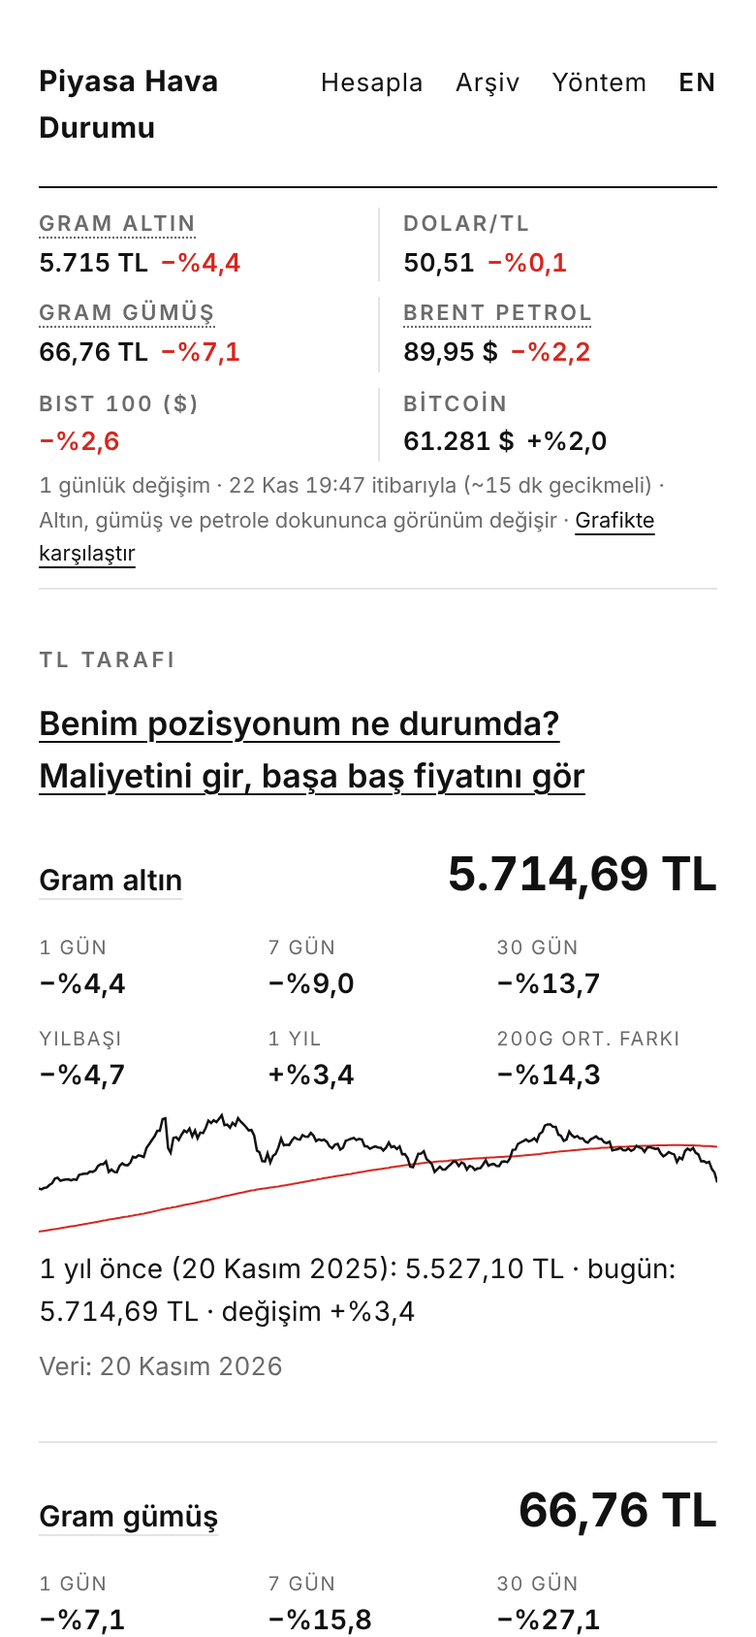
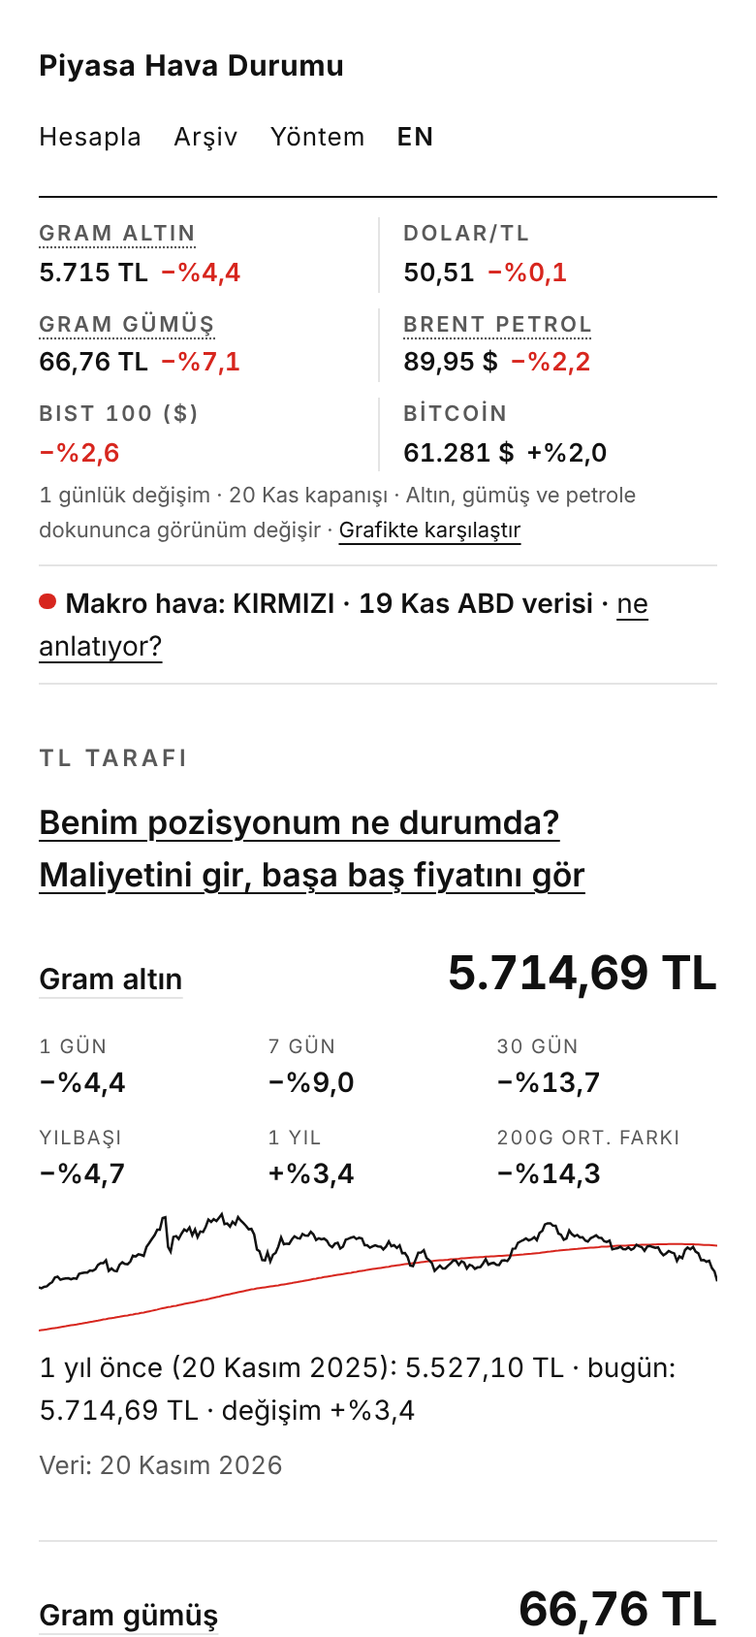
Calculator spread (with TCMB banknote reference), clearer band date, macro line on first screen, mobile masthead, headline language + lottery filter
Claude-Session: https://claude.ai/code/session_01HYDefgn5NWFqFd8ndNssHq

diff --git a/piyasa/hesapla.js b/piyasa/hesapla.js
@@ -14,7 +14,7 @@
   function L(tr, en) { return EN ? en : tr; }
 
   function $(id) { return document.getElementById(id); }
-  if (EN) ["sonuc", "fiyat-meta", "foot-meta", "maliyet-label", "miktar-label", "maliyet", "miktar"].forEach(function (id) { var e = $(id); if (e) e.setAttribute("data-noi18n", ""); });
+  if (EN) ["sonuc", "fiyat-meta", "foot-meta", "maliyet-label", "miktar-label", "maliyet", "miktar", "makas-ref"].forEach(function (id) { var e = $(id); if (e) e.setAttribute("data-noi18n", ""); });
   function el(tag, cls, text) {
     var e = document.createElement(tag);
     if (cls) e.className = cls;
@@ -55,7 +55,7 @@
   function save() {
     try {
       if ($("hatirla").checked) {
-        localStorage.setItem(KEY, JSON.stringify({ a: $("varlik").value, c: ccy(), m: $("maliyet").value, q: $("miktar").value }));
+        localStorage.setItem(KEY, JSON.stringify({ a: $("varlik").value, c: ccy(), m: $("maliyet").value, q: $("miktar").value, s: $("makas").value }));
       } else {
         localStorage.removeItem(KEY);
       }
@@ -69,6 +69,7 @@
       Array.prototype.forEach.call(document.querySelectorAll('input[name="ccy"]'), function (r) { r.checked = r.value === s.c; });
       $("maliyet").value = String(s.m || "").slice(0, 32);
       $("miktar").value = String(s.q || "").slice(0, 32);
+      $("makas").value = String(s.s || "").slice(0, 8);
       $("hatirla").checked = true;
     } catch (e) { /* ignore */ }
   }
@@ -114,7 +115,9 @@
     if (!P) return;
     var cost = parse($("maliyet").value), qty = parse($("miktar").value);
     if (a === "bist100" && cost > 0) qty = qty / cost;           // TL invested -> index units
-    var r = C.compute(a, cost, c, qty, P);
+    var spread = parse($("makas").value);
+    var r = C.compute(a, cost, c, qty, P, spread > 0 ? spread : 0);
+    if (spread >= 50) $("makas").setAttribute("aria-invalid", "true"); else $("makas").removeAttribute("aria-invalid");
     if (!r) {
       if (show || $("maliyet").value || $("miktar").value) {
         var msg;
@@ -171,8 +174,18 @@
     row(tb, L("Kâr / zarar", "Profit / loss"), (r.pl < 0 ? "−" : "+") + money(Math.abs(r.pl), r.ccy), r.pl < 0 ? "neg" : null);
     row(tb, L("Maliyetine dönmek için fiyat", "Breakeven price"), a === "bist100" ? num(r.breakeven, 0) + L(" puan", " points") : money(r.breakeven, r.ccy));
     row(tb, L("Gereken yükseliş", "Rise needed"), r.toBreakevenPct <= 0 ? L("Yok (maliyetin üzerindesin)", "None (above your cost)") : signedPct(r.toBreakevenPct));
+    if (r.spreadPct) {
+      var spTxt = EN ? num(r.spreadPct, 2) + "%" : "%" + num(r.spreadPct, 2);
+      row(tb, L("Bozdurunca eline geçen (makas ", "Cash received (spread ") + spTxt + ")", a === "bist100" ? money(r.netValue, "TL") : money(r.netValue, r.ccy));
+      row(tb, L("Makas sonrası kâr / zarar", "Profit / loss after spread"), (r.netPl < 0 ? "−" : "+") + money(Math.abs(r.netPl), r.ccy) + " (" + signedPct(r.netPlPct) + ")", r.netPl < 0 ? "neg" : null);
+      row(tb, L("Makas dahil maliyetine dönmek için fiyat", "Breakeven price incl. spread"), a === "bist100" ? num(r.netBreakeven, 0) + L(" puan", " points") : money(r.netBreakeven, r.ccy));
+      row(tb, L("Makas dahil gereken yükseliş", "Rise needed incl. spread"), r.netToBreakevenPct <= 0 ? L("Yok", "None") : signedPct(r.netToBreakevenPct));
+    }
     t.appendChild(tb);
     out.appendChild(t);
+    if (r.spreadPct) out.appendChild(el("p", "mute small", L(
+      "Makas satırları, piyasa fiyatı yerine bozdururken eline geçecek fiyatla hesaplanır. Makası sen girdin; gerçek makas yere ve saate göre değişir.",
+      "The spread rows use the price you would actually receive when selling instead of the market price. You entered the spread; real spreads vary by dealer and time.")));
 
     if (a === "bist100") return;
     out.appendChild(el("p", "label kicker", L("Dolar/TL değişirse", "If USD/TRY changes")));
@@ -212,12 +225,27 @@
     P = d && d.prices ? d.prices : null;
     var meta = P ? L("Dolar/TL ", "USD/TRY ") + num(+P.usdtry, 4) + L(" · fiyat tarihi ", " · price date ") + trDate(P.usdtry_asof) : L("Güncel fiyat alınamadı.", "Current prices could not be loaded.");
     $("fiyat-meta").textContent = meta;
+    var mr = d && d.makas_ref && d.makas_ref.usd;
+    if (mr && typeof mr.pct === "number" && /^\d{4}-\d{2}-\d{2}$/.test(mr.tarih || "")) {
+      var refEl = $("makas-ref");
+      refEl.textContent = EN
+        ? "Reference: Central Bank (TCMB) banknote buying/selling rates for the US dollar differ by " + num(mr.pct, 2) + "% (TCMB rates of " + trDate(mr.tarih) + ", published around 15:30). Banks and dealers usually apply a wider spread. There is no free daily spread data for gold and silver; check your own dealer."
+        : "Referans: TCMB dolar efektif alış ve satış kuru arasındaki fark %" + num(mr.pct, 2) + " (TCMB'nin " + trDate(mr.tarih) + " kuru, ~15:30'da açıklanır). Bankalar ve döviz büroları genellikle daha geniş makas uygular. Altın ve gümüş için serbest günlük makas verisi yok; kendi aldığın yerin fiyatlarına bak.";
+      refEl.hidden = false;
+    }
     $("foot-meta").textContent = L("Fiyat tarihi: ", "Price date: ") + (P ? trDate(P.usdtry_asof) : "—") + L(" · Kaynak: Piyasa Hava Durumu türetilmiş verisi", " · Source: Piyasa Hava Durumu derived data");
     update();
   }
 
-  ["varlik", "maliyet", "miktar", "hatirla"].forEach(function (id) {
+  ["varlik", "maliyet", "miktar", "makas", "hatirla"].forEach(function (id) {
     $(id).addEventListener(id === "varlik" || id === "hatirla" ? "change" : "input", function () { update(); });
+  });
+  // "Makası bilmiyor musun?": two dealer prices -> spread %
+  ["makas-satis", "makas-alis"].forEach(function (id) {
+    $(id).addEventListener("input", function () {
+      var sp = C.spreadFromPrices(parse($("makas-satis").value), parse($("makas-alis").value));
+      if (sp != null) { $("makas").value = num(sp, 2); update(); }
+    });
   });
   Array.prototype.forEach.call(document.querySelectorAll('input[name="ccy"]'), function (r) { r.addEventListener("change", function () { update(); }); });
   // Mobile: "next" on the cost field moves on; "done"/Enter or the button computes and closes the keyboard.

diff --git a/piyasa/veri.html b/piyasa/veri.html
@@ -109,14 +109,14 @@
 
     <section>
       <h2 id="tl">tl.json ve konum.json</h2>
-      <p><code>tl.json → assets[]</code>: <code>id, label, unit, asof, last, chg_1g, chg_7g, chg_30g, chg_ytd, chg_1y, date_1y, val_1y, vs_ma200, stale, series</code> (yüzdeler 2 ondalık). <code>prices</code>: hesaplayıcı için güncel yuvarlanmış fiyatlar. <code>band</code>: üst banttaki alternatif görünümler (<code>ons_altin</code>, <code>ons_gumus</code>, <code>brent</code>, <code>wti</code>): <code>label, unit, asof, last, chg_1g, stale</code>.</p>
+      <p><code>tl.json → assets[]</code>: <code>id, label, unit, asof, last, chg_1g, chg_7g, chg_30g, chg_ytd, chg_1y, date_1y, val_1y, vs_ma200, stale, series</code> (yüzdeler 2 ondalık). <code>prices</code>: hesaplayıcı için güncel yuvarlanmış fiyatlar. <code>band</code>: üst banttaki alternatif görünümler (<code>ons_altin</code>, <code>ons_gumus</code>, <code>brent</code>, <code>wti</code>): <code>label, unit, asof, last, chg_1g, stale</code>. <code>makas_ref.usd</code>: TCMB dolar efektif alış/satış kuru ve aradaki yüzde fark (<code>alis, satis, pct, tarih</code>; kaynak TCMB, kamuya açık), hesaplayıcıdaki makas referansı.</p>
       <p><code>konum.json → groups[].satirlar[]</code>: <code>id, ad, asof, ust20, ust50, ust200</code> (1 = üstünde, 0 = altında, null = yeterli geçmiş yok), <code>fark200</code> (200 günlük ortalamaya % uzaklık, 1 ondalık), <code>eski</code>. Grup içinde alfabetik; bir sıralama değildir.</p>
     </section>
 
     <section>
       <h2 id="dunya">dunya.json</h2>
       <p><code>markets[]</code>: <code>id, baslik, endeksler[], sirketler[]</code>. Endeks/fon satırı: <code>id, ad, tur</code> (endeks | fon), <code>asof, seviye</code> (yuvarlanmış son kapanış), <code>chg_1g, chg_7g, chg_30g, chg_ytd</code> (% , 1 ondalık), <code>ust20, ust50, ust200</code> (0/1/null), <code>fark200, eski</code>. Şirket satırı aynı alanlar, <code>seviye</code> yok, <code>kod</code> borsa kodu; alfabetik.</p>
-      <p><code>emtia[]</code>: <code>grup, satirlar[]</code> (endeks satırı + <code>birim</code>). <code>referans_metaller[]</code>: <code>ad, aciklama, durum</code> ("günlük serbest veri yok"; fiyat yok). <code>basliklar</code>: <code>konular[].basliklar[]</code> = <code>baslik, kaynak, url, zaman</code> (UTC) — haber metni yok; <code>kaynaklar[]</code> (akış ve son durum), <code>bekleyen[]</code>.</p>
+      <p><code>emtia[]</code>: <code>grup, satirlar[]</code> (endeks satırı + <code>birim</code>). <code>referans_metaller[]</code>: <code>ad, aciklama, durum</code> ("günlük serbest veri yok"; fiyat yok). <code>basliklar</code>: <code>konular[].basliklar[]</code> = <code>baslik, kaynak, url, zaman, dil</code> (UTC; <code>dil</code> başlığın dili: en/pt/tr) — haber metni yok; <code>kaynaklar[]</code> (akış ve son durum), <code>bekleyen[]</code>.</p>
     </section>
 
     <section>

diff --git a/piyasa/style.css b/piyasa/style.css
@@ -6,7 +6,7 @@
 @font-face{font-family:"Inter";font-style:normal;font-weight:700;font-display:swap;src:url(fonts/inter-latin-ext-700-normal.woff2) format("woff2");unicode-range:U+0100-02AF,U+0304,U+0308,U+0329,U+1E00-1E9F,U+1EF2-1EFF,U+2020,U+20A0-20AB,U+20AD-20C0,U+2113,U+2C60-2C7F,U+A720-A7FF}
 @font-face{font-family:"Inter";font-style:normal;font-weight:700;font-display:swap;src:url(fonts/inter-latin-700-normal.woff2) format("woff2");unicode-range:U+0000-00FF,U+0131,U+0152-0153,U+02BB-02BC,U+02C6,U+02DA,U+02DC,U+0304,U+0308,U+0329,U+2000-206F,U+2074,U+20AC,U+2122,U+2191,U+2193,U+2212,U+2215,U+FEFF,U+FFFD}
 
-:root{--bg:#fff;--ink:#111;--mute:#6b6b6b;--rule:#e4e4e4;--red:#d7261e;--w:44rem}
+:root{--bg:#fff;--ink:#111;--mute:#595959;--rule:#e4e4e4;--red:#d7261e;--w:44rem}
 *{box-sizing:border-box}
 html{-webkit-text-size-adjust:100%}
 body{margin:0;background:var(--bg);color:var(--ink);font:400 17px/1.6 "Inter",system-ui,-apple-system,"Segoe UI",Roboto,Arial,sans-serif;font-feature-settings:"tnum" 1}
@@ -19,7 +19,7 @@ header.masthead{padding:28px 0 18px;border-bottom:1px solid var(--ink)}
 .tagline{font-size:12px;color:var(--mute);letter-spacing:.04em}
 footer .brand-links a{color:var(--ink)}
 footer .brand-links a:hover{color:var(--red)}
-.label{font-size:11px;font-weight:600;letter-spacing:.16em;text-transform:uppercase;color:var(--mute);margin:0 0 10px}
+.label{font-size:12px;font-weight:600;letter-spacing:.16em;text-transform:uppercase;color:var(--mute);margin:0 0 10px}
 h1{font-weight:700;font-size:30px;line-height:1.2;letter-spacing:-.01em;margin:36px 0 8px}
 .dot{display:inline-block;width:.62em;height:.62em;border-radius:50%;background:var(--red);vertical-align:.08em;margin-right:.35em}
 section{padding:28px 0;border-top:1px solid var(--rule)}
@@ -355,3 +355,14 @@ ul.more li:first-child{border-top:0}
 ul.more li .small{display:block;margin-top:2px}
 hr.rule-top{border:0;border-top:1px solid var(--rule);margin:28px 0 20px}
 .tl-link.top{margin:0 0 18px;font-size:17px;font-weight:600}
+.makas-yardim{margin:4px 0 8px;font-size:14px}
+.makas-yardim summary{cursor:pointer;text-decoration:underline;text-underline-offset:3px}
+.makas-yardim[open] summary{margin-bottom:6px}
+.macro-line{margin:0;padding:8px 0;border-bottom:1px solid var(--rule);font-size:14px;font-weight:600}
+.macro-line[hidden]{display:none}
+.macro-line a{font-weight:400;color:var(--ink)}
+.macro-line a:hover{color:var(--red)}
+/* Narrow screens: brand on one line, menu on its own row (reviewers saw the name break into 3 lines) */
+@media (max-width:520px){header.masthead{flex-wrap:wrap;row-gap:10px;padding-top:22px}
+.brandbox,.brand{white-space:nowrap}
+header.masthead nav{width:100%}}

diff --git a/piyasa/hesapla-core.js b/piyasa/hesapla-core.js
@@ -32,8 +32,17 @@
   /* Breakeven ounce price in USD for a TL cost per gram at a given USD/TRY. */
   function breakevenOunceUsd(costTlPerGram, usdtry) { return costTlPerGram * OZ / usdtry; }
 
-  /* cost: average cost per unit in `ccy` ("TL" | "USD"); amount: units held. */
-  function compute(asset, cost, ccy, amount, p) {
+  /* Spread % from the two prices a dealer quotes: sell (what you pay) and buy (what you get). */
+  function spreadFromPrices(sell, buy) {
+    sell = +sell; buy = +buy;
+    if (!(sell > 0) || !(buy > 0) || buy > sell) return null;
+    return (sell - buy) / sell * 100;
+  }
+
+  /* cost: average cost per unit in `ccy` ("TL" | "USD"); amount: units held.
+     spreadPct (optional, 0–50): dealer spread / commission taken when selling; the market price
+     must be this much higher for the cash you receive to cover your cost. */
+  function compute(asset, cost, ccy, amount, p, spreadPct) {
     var a = ASSETS[asset];
     var px = prices(asset, p || {});
     cost = +cost; amount = +amount;
@@ -50,6 +59,16 @@
       scenarios: []
     };
     r.pl = r.value - r.costTotal;
+    var sp = +spreadPct;
+    if (sp > 0 && sp < 50) {
+      var k = 1 - sp / 100;
+      r.spreadPct = sp;
+      r.netValue = r.value * k;
+      r.netPl = r.netValue - r.costTotal;
+      r.netPlPct = (r.netValue / r.costTotal - 1) * 100;
+      r.netBreakeven = cost / k;                       // market price at which the cash received = cost
+      r.netToBreakevenPct = (r.netBreakeven / cur - 1) * 100;
+    }
     [0, 10, 20].forEach(function (k) {
       var u = px.usdtry * (1 + k / 100);
       var s = { shockPct: k, usdtry: u };
@@ -69,7 +88,8 @@
     return r;
   }
 
-  var api = { ASSETS: ASSETS, OZ: OZ, prices: prices, compute: compute, breakevenOunceUsd: breakevenOunceUsd };
+  var api = { ASSETS: ASSETS, OZ: OZ, prices: prices, compute: compute, breakevenOunceUsd: breakevenOunceUsd,
+              spreadFromPrices: spreadFromPrices };
   if (typeof module === "object" && module.exports) module.exports = api;
   else root.PHDCalc = api;
 })(this);

diff --git a/piyasa/tl.js b/piyasa/tl.js
@@ -158,6 +158,12 @@
     var p2 = function (n) { return (n < 10 ? "0" : "") + n; };
     return t.getUTCDate() + " " + MONTHS[t.getUTCMonth()].slice(0, 3) + " " + p2(t.getUTCHours()) + ":" + p2(t.getUTCMinutes());
   }
+  function istanbulDay(iso) {
+    var m = /^(\d{4})-(\d{2})-(\d{2})T(\d{2}):(\d{2})/.exec(String(iso || ""));
+    if (!m) return "";
+    var t = new Date(Date.UTC(+m[1], +m[2] - 1, +m[3], +m[4] + 3, +m[5]));
+    return isNaN(t.getTime()) ? "" : t.toISOString().slice(0, 10);
+  }
   function band(d) {
     var host = document.getElementById("band");
     if (!host) return;
@@ -206,8 +212,12 @@
     host.textContent = "";
     host.appendChild(ul);
     // Updated at 09:00, 10:30, 18:30 and after the US close (İstanbul): show the update time, not a "close".
-    var gen = istanbulTime(d.generated_at);
-    var when = gen ? " · " + gen + " itibarıyla (~15 dk gecikmeli)" : (last ? " · " + shortDate(last) + " kapanışı" : "");
+    // Time only when the newest price is from today (İstanbul); otherwise (night, weekend, holiday) the close date.
+    var gen = istanbulTime(d.generated_at), genDay = istanbulDay(d.generated_at);
+    // Reference day = gram gold's bar (the dollar can carry thin weekend quotes and would make Sunday look "live").
+    var ref = (src.a.gram_altin && src.a.gram_altin.asof) || last;
+    var when = gen && ref && ref === genDay ? " · " + gen + " itibarıyla (~15 dk gecikmeli)"
+      : (ref ? " · " + shortDate(ref) + " kapanışı" : "");
     var note = el("p", "band-n", "1 günlük değişim" + when +
       (toggles ? " · Altın, gümüş ve petrole dokununca görünüm değişir" : ""));
     var cmp = el("a", "band-cmp", "Grafikte karşılaştır");

diff --git a/piyasa/app.js b/piyasa/app.js
@@ -90,6 +90,24 @@
       : "Makro hava verisi yok";
     document.title = lvl ? "Makro hava: " + WORD[lvl] + " — Piyasa Hava Durumu" : document.title;
 
+    // One line under the band so the level is visible on the first screen (the full block is further down).
+    var ml = $("macro-line");
+    if (ml && lvl && !archived) {
+      ml.textContent = "";
+      ml.setAttribute("data-noi18n", "");
+      var LV_EN = { YESIL: "GREEN", SARI: "YELLOW", KIRMIZI: "RED" };
+      ml.appendChild(el("span", "dot lv-" + lvl.toLowerCase()));
+      var mm = /^(\d{4})-(\d{2})-(\d{2})$/.exec(String(d.data_date || ""));
+      var MEN = ["Jan", "Feb", "Mar", "Apr", "May", "Jun", "Jul", "Aug", "Sep", "Oct", "Nov", "Dec"];
+      var dd = mm ? (+mm[3]) + " " + (EN ? MEN[+mm[2] - 1] : MONTHS[+mm[2] - 1].slice(0, 3)) : "";
+      ml.appendChild(document.createTextNode((EN ? "Macro weather: " + LV_EN[lvl] : "Makro hava: " + WORD[lvl]) +
+        (dd ? (EN ? " · US data of " + dd : " · " + dd + " ABD verisi") : "") + " · "));
+      var ma = el("a", null, EN ? "what it means" : "ne anlatıyor?");
+      ma.href = "#kicker";
+      ml.appendChild(ma);
+      ml.hidden = false;
+    }
+
     var mode = d.mode === "live" ? "canlı" : d.mode === "retro" ? "geriye dönük" : "—";
     $("meta").textContent = "Veri: " + trDate(d.data_date) + " kapanışı · Kural sürümü " +
       (d.rules_version || "—") + " · Kayıt: " + mode;

diff --git a/piyasa/hesapla.html b/piyasa/hesapla.html
@@ -65,6 +65,17 @@
       <input type="text" id="maliyet" inputmode="decimal" enterkeyhint="next" placeholder="örn. 102,50">
       <label for="miktar" id="miktar-label">Miktar</label>
       <input type="text" id="miktar" inputmode="decimal" enterkeyhint="done" placeholder="örn. 10">
+      <label for="makas" id="makas-label">Makas / komisyon (%) — isteğe bağlı</label>
+      <input type="text" id="makas" inputmode="decimal" enterkeyhint="done" placeholder="örn. 2" aria-describedby="makas-not">
+      <p class="mute small" id="makas-not">Kuyumcu, banka ya da aracı kurum alış ve satış fiyatını farklı verir; bozdururken eline geçen tutar piyasa fiyatından düşüktür. Kendi aldığın yerin makasını gir.</p>
+      <details class="makas-yardim">
+        <summary>Makası bilmiyor musun? Fiyatlardan hesapla</summary>
+        <label for="makas-satis">Satış fiyatı (senin ödediğin)</label>
+        <input type="text" id="makas-satis" inputmode="decimal" placeholder="örn. 3000">
+        <label for="makas-alis">Alış fiyatı (bozdurunca aldığın)</label>
+        <input type="text" id="makas-alis" inputmode="decimal" placeholder="örn. 2940">
+      </details>
+      <p class="mute small" id="makas-ref" hidden></p>
       <label class="remember"><input type="checkbox" id="hatirla"> Bu cihazda hatırla</label>
       <button type="submit" class="go" id="hesapla">Hesapla</button>
     </form>

diff --git a/piyasa/i18n-pages.js b/piyasa/i18n-pages.js
@@ -13,6 +13,13 @@
     "Varlık": "Asset", "Gram altın": "Gold (gram)", "Gram gümüş": "Silver (gram)", "Dolar": "Dollar",
     "BIST 100 (puan)": "BIST 100 (points)", "Maliyet para birimi": "Cost currency",
     "Ortalama maliyet (birim başına)": "Average cost (per unit)", "Miktar": "Amount",
+    "Makas / komisyon (%) — isteğe bağlı": "Spread / commission (%) — optional",
+    "örn. 2": "e.g. 2", "örn. 3000": "e.g. 3000", "örn. 2940": "e.g. 2940",
+    "Kuyumcu, banka ya da aracı kurum alış ve satış fiyatını farklı verir; bozdururken eline geçen tutar piyasa fiyatından düşüktür. Kendi aldığın yerin makasını gir.":
+      "Jewellers, banks and brokers quote two different prices; when you cash out, you receive less than the market price. Enter your own dealer's spread.",
+    "Makası bilmiyor musun? Fiyatlardan hesapla": "Don't know the spread? Work it out from prices",
+    "Satış fiyatı (senin ödediğin)": "Ask price (what you pay)",
+    "Alış fiyatı (bozdurunca aldığın)": "Bid price (what you get when you cash out)",
     "Bu cihazda hatırla": "Remember on this device", "Hesapla": "Calculate",
     "Yatırım tavsiyesi değildir. Veriler bilgi amaçlıdır. Hesap sonuçları yalnız aritmetiktir.":
       "Not investment advice. Data for information only. Results are plain arithmetic.",

diff --git a/tests/hesapla_test.js b/tests/hesapla_test.js
@@ -36,3 +36,15 @@ assert.strictEqual(C.compute("gram_altin", 100, "TL", -1, p), null);
 assert.strictEqual(C.compute("yok", 100, "TL", 1, p), null);
 assert.strictEqual(C.compute("eth", 100, "TL", 1, p), null); // no ETH price
 console.log("hesapla: ok");
+
+// spread (makas): sell 3000, buy 2940 -> 2%
+close(C.spreadFromPrices(3000, 2940), 2, 1e-9);
+assert.strictEqual(C.spreadFromPrices(2940, 3000), null);
+const rs = C.compute("gram_altin", 5800, "TL", 10, { usdtry: 50, gram_altin_tl: 6000 }, 2);
+close(rs.netValue, 60000 * 0.98, 1e-6);
+close(rs.netPl, 58800 - 58000, 1e-6);
+close(rs.netBreakeven, 5800 / 0.98, 1e-9);
+close(rs.netToBreakevenPct, (5800 / 0.98 / 6000 - 1) * 100, 1e-9);
+assert.strictEqual(C.compute("gram_altin", 5800, "TL", 10, { usdtry: 50, gram_altin_tl: 6000 }).spreadPct, undefined);
+console.log("hesapla spread: ok");
+

diff --git a/piyasa/dunya-side.js b/piyasa/dunya-side.js
@@ -38,6 +38,8 @@
       box.appendChild(t);
       var heads = [];
       ((d.basliklar || {}).konular || []).forEach(function (k) { heads = heads.concat(k.basliklar || []); });
+      // Home sidebar: only headlines a Turkish/English reader can follow; dunya.html lists all languages.
+      heads = heads.filter(function (h) { return !h.dil || h.dil === "en" || h.dil === "tr"; });
       heads.sort(function (a, b) { return String(b.zaman).localeCompare(String(a.zaman)); });
       if (heads.length) {
         box.appendChild(el("p", "label more", "Günün başlıkları"));

diff --git a/piyasa/index.html b/piyasa/index.html
@@ -45,6 +45,7 @@
     <nav aria-label="Site"><a href="hesapla.html">Hesapla</a><a href="arsiv.html">Arşiv</a><a href="yontem.html">Yöntem</a></nav>
   </header>
   <div class="band" id="band" aria-label="Piyasa bandı: 1 günlük değişim" role="region" hidden></div>
+  <p class="macro-line" id="macro-line" hidden></p>
   <main id="main">
     <section aria-labelledby="l-tl">
       <p class="label" id="l-tl">TL tarafı</p>

diff --git a/tools/fetch_tl.py b/tools/fetch_tl.py
@@ -12,6 +12,7 @@ or public source before any monetization):
   TRY=X (USD/TRY), GC=F (COMEX gold, USD/oz), SI=F (COMEX silver, USD/oz), XU100.IS,
   BTC-USD, ETH-USD (for the 1-year view; the calculator prefers OKX closes from the notebook),
   BZ=F, CL=F (Brent / WTI oil, top band only: last value + 1-day change)
+TCMB today.xml (public): USD banknote buying/selling -> makas_ref, the calculator's spread reference.
 First run (or a store that is not daily) backfills daily bars from 2000 via
 period1/period2 (range=max returns MONTHLY bars); later runs fetch 1 year and merge. Each symbol is independent: a failure is logged and the rest continue.
 BIST 100 index level is published only as the current rounded level (needed by the
@@ -274,6 +275,39 @@ def derive(data, today, crypto=None):
     return {"assets": assets, "prices": prices, "band": band, "status": "ok" if core_ok else "güncellenmedi"}
 
 
+# ---------------------------------------------------------------- TCMB banknote spread (calculator reference)
+TCMB_URL = "https://www.tcmb.gov.tr/kurlar/today.xml"
+
+
+def parse_tcmb(xml_bytes):
+    """USD banknote buying/selling from TCMB today.xml -> {alis, satis, pct, tarih}. Public data (TCMB)."""
+    import xml.etree.ElementTree as ET
+    if b"<!DOCTYPE" in xml_bytes[:2000] or b"<!ENTITY" in xml_bytes:
+        raise ValueError("DTD not allowed")
+    root = ET.fromstring(xml_bytes)
+    m, d, y = root.attrib["Date"].split("/")
+    for c in root.findall("Currency"):
+        if c.attrib.get("CurrencyCode") == "USD":
+            buy, sell = float(c.findtext("BanknoteBuying")), float(c.findtext("BanknoteSelling"))
+            if not (0 < buy <= sell):
+                raise ValueError("bad rates")
+            return {"alis": round(buy, 4), "satis": round(sell, 4), "pct": round((sell - buy) / sell * 100, 2),
+                    "tarih": f"{y}-{int(m):02d}-{int(d):02d}", "kaynak": "TCMB efektif kurlar (today.xml)"}
+    raise ValueError("USD not found")
+
+
+def tcmb_ref(previous=None):
+    try:
+        with urllib.request.urlopen(urllib.request.Request(TCMB_URL, headers=UA), timeout=30) as r:
+            data = r.read(500_000)
+        ref = parse_tcmb(data)
+        status["TCMB_USD"] = f"OK {ref['tarih']} %{ref['pct']}"
+        return {"usd": ref}
+    except Exception as e:
+        status["TCMB_USD"] = f"ERR {type(e).__name__}: {str(e)[:80]}"
+        return previous          # keep the last good reference (it carries its own date)
+
+
 # ---------------------------------------------------------------- compare.json (Karşılaştır sayfası)
 COMPARE_DAYS = 740          # ~2 years of calendar days
 # id, label, unit, kind ("fiyat": real level published; "endeks": rebased to 100 at the first day)
@@ -323,6 +357,14 @@ def main():
     for k, v in status.items():
         print(f"  {k}: {v}")
     d = derive(data, now.date().isoformat(), crypto_refs(NOTEBOOK))
+    prev = None
+    try:
+        prev = json.load(open(os.path.join(SITE_OUT, "tl.json"), encoding="utf-8")).get("makas_ref")
+    except Exception:
+        pass
+    ref = tcmb_ref(prev)
+    if ref:
+        d["makas_ref"] = ref
     rec = {"schema": "phd.tl/1", "schema_version": 1, "source": SOURCE, "site_url": SITE_URL,
            "generated_at": now.isoformat().replace("+00:00", "Z"), "attribution": ATTRIBUTION,
            "license": "Yalnızca görüntüleme (atıfla). Girdiler Yahoo Finance/OKX kişisel kullanım şartlı; CC BY 4.0 kapsamında değil. Ayrıntı: veri.html", "note": DATA_NOTE, "rules_version": "v1",
